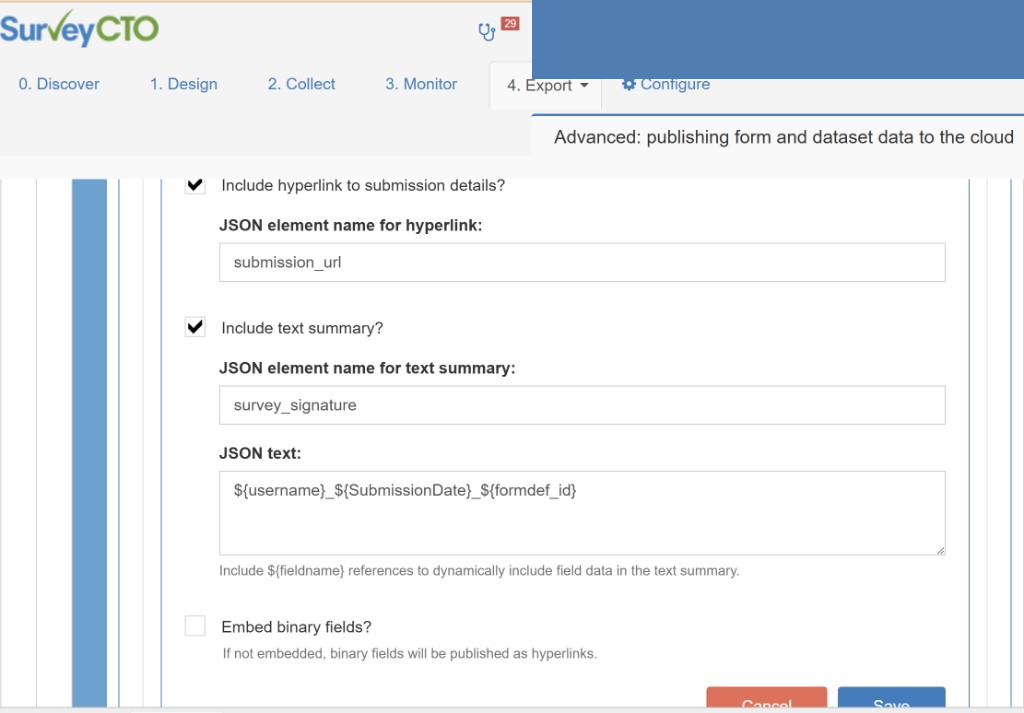
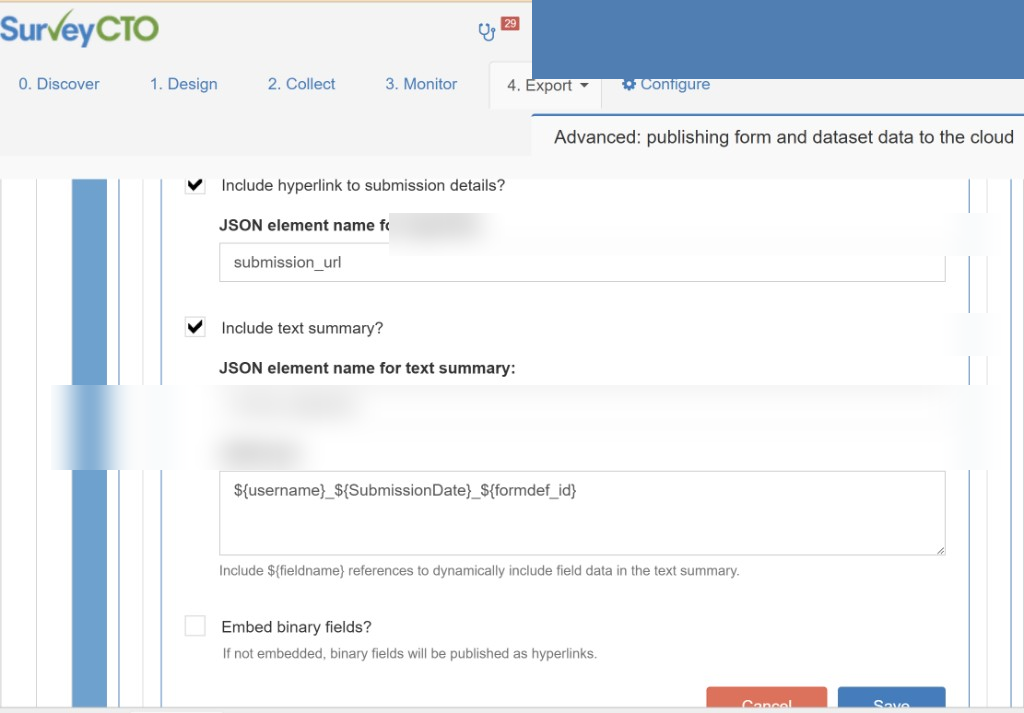
Add SurveyCTO webhook guide with console screenshots

diff --git a/docs/SurveyCTO-Publishing-to-other-systems-via-webhooks.md b/docs/SurveyCTO-Publishing-to-other-systems-via-webhooks.md
@@ -109,37 +109,38 @@ Submission received from ${enumerator_name}, for household headed by ${hh_head}
 
 (Note, however, that you can only reference **publishable** fields in encrypted forms.)
 
-#### Example: `survey_signature` via “Include text summary” (used in this repo)
+#### Example: optional text summary for your receiver (generic)
 
-SurveyCTO can add an **extra JSON field** built from `${fieldname}` references. You choose the **JSON element name** and the **JSON text** in the webhook screen — this is **not** a built-in SurveyCTO system field name; you pick the name (here: `survey_signature`).
+SurveyCTO can add an **extra JSON field** built from `${fieldname}` references. You choose the **JSON element name** and the **JSON text** in the webhook screen. These names are **yours to define** — they are not fixed SurveyCTO system fields.
 
 ![Webhook options — hyperlink, text summary, embed binary](images/04-webhook-options-text-summary.png)
 
-*Figure 4: Example settings aligned with [suvita-public/surveycto-webhook-example](https://github.com/suvita-public/surveycto-webhook-example):*
+*Figure 4: Webhook options screen. **Sensitive values in the form are blurred** — use your own element names and JSON text in production; do not copy values from public documentation.*
 
-| Option | Example setting |
-|--------|-----------------|
-| Include hyperlink to submission details? | **Checked** — JSON element name: `submission_url` |
-| Include text summary? | **Checked** — JSON element name: `survey_signature` |
-| JSON text | `${username}_${SubmissionDate}_${formdef_id}` |
+**Illustrative console settings (fictional — not a production recipe):**
+
+| Option | Example only |
+|--------|----------------|
+| Include hyperlink to submission details? | **Checked** — JSON element name: e.g. `submission_link` |
+| Include text summary? | **Checked** — JSON element name: e.g. `submission_summary` |
+| JSON text | e.g. `Received from ${username} on ${SubmissionDate}` |
 | Embed binary fields? | **Unchecked** (files publish as metadata/hyperlinks) |
 
-SurveyCTO substitutes `${username}`, `${SubmissionDate}`, and `${formdef_id}` when the webhook fires. The published JSON can look like:
+SurveyCTO substitutes `${fieldname}` tokens when the webhook fires. A published payload might include:
 
 ```json
-"survey_signature": "collector@example.org_2025-07-01T15:07:53.416Z_example_form"
+"submission_summary": "Received from collector@example.org on 2025-07-01T15:07:53.416Z"
 ```
 
-**What the example receiver checks** (`app/services/webhook_service.py`): it rebuilds `{username}_{SubmissionDate}_{formdef_id}` and compares it to `survey_signature`. If they do not match, the request is rejected with HTTP 400.
+**Security — important**
 
-This is a **simple integrity check** for demos or low-risk workflows. It is **not** a substitute for proper authentication (API keys, HMAC, IP allow lists, etc.) on production systems.
+- Treat any text-summary pattern as **non-secret**. Anyone who receives webhooks can see usernames, dates, and field values and can often **reconstruct** the same string.
+- **Do not** publish your real JSON element name, `${...}` formula, or validation logic in public docs, screenshots, or repos if you rely on it operationally.
+- Use **HTTPS**, **network restrictions**, and **proper auth** (API keys, HMAC, etc.) for real protection — not a custom summary field alone.
 
-**Also publish** `username`, `SubmissionDate`, `formdef_id`, and `KEY` in the field list (Figure 3) so your server can use them independently of the summary string.
+**This open-source example app** includes optional payload checks in `app/services/webhook_service.py` for **local demos and tests**. Configure your **own** field names and rules in your deployment; see the code and [`examples/sample_submission.json`](../examples/sample_submission.json) only in a private or sanitized environment.
 
-**Alternative:** you can use the same pattern in a **calculate** field inside the form and publish that field instead of (or in addition to) the text summary — as long as the JSON key and value format match what your receiver expects.
-
-- Sample payload: [`examples/sample_submission.json`](../examples/sample_submission.json)
-- Validation: `app/services/webhook_service.py` → `_validate_survey_signature()`
+**Also publish** the underlying fields you reference (e.g. `username`, `SubmissionDate`, `KEY`) in the field list (Figure 3) if your receiver needs them separately from the summary text.
 
 ---
 
@@ -211,7 +212,7 @@ Exact fields depend on your form and what you selected to publish. Receivers oft
 | `SubmissionDate` | ISO timestamp of submission |
 | `formdef_id` | Form version identifier |
 
-Plus any form fields you selected (text, selects, repeats, files, and custom calculate fields such as `survey_signature`).
+Plus any form fields you selected (text, selects, repeats, files, and any extra summary field you configured).
 
 ---
 
@@ -250,14 +251,14 @@ See `examples/sample_submission.json` in this repository. Illustrative shape:
   "username": "collector@example.org",
   "formdef_id": "example_form",
   "KEY": "uuid:00000000-0000-0000-0000-000000000001",
-  "survey_signature": "collector@example.org_2025-07-01T15:07:53.416Z_example_form",
+  "submission_summary": "Received from collector@example.org on 2025-07-01T15:07:53.416Z",
   "attachments": [
     { "file": { "filename": "photo-1.jpg", "type": "image/jpeg" } }
   ]
 }
 ```
 
-`survey_signature` appears only if you added and published that calculate field in your form.
+Extra summary fields appear only if you enabled **Include text summary** and set a JSON element name in the webhook options.
 
 ### Local testing (this repo)
 
@@ -279,7 +280,7 @@ curl -X POST http://localhost:8000/webhook/surveycto \
 | Symptom | Things to check |
 |---------|------------------|
 | No POST received | Cloud publishing **ON**; webhook on the **correct form**; URL is **HTTPS** and public; wait **10 minutes** |
-| 400 from example app | `survey_signature` mismatch — text summary must be `${username}_${SubmissionDate}_${formdef_id}` (same as Figure 4) or disable validation in code |
+| 400 from example app | Optional demo validation in code rejected the payload — adjust `webhook_service.py` or your SurveyCTO text summary to match **your** private setup |
 | Missing form fields | Field not selected in webhook config; encrypted field not **publishable** |
 | No files / only filenames | **Embed binary** is off — expected; use SurveyCTO URLs or APIs to fetch bytes |
 | Wrong attachment structure | `attachment_repeat_group` / `attachment_field` in `appconfig.ini` must match **your** form JSON keys |

diff --git a/README.md b/README.md
@@ -71,7 +71,7 @@ copy app\config\logconfig.ini.example app\config\logconfig.ini
 
 See [SurveyCTO documentation](https://docs.surveycto.com/) for webhook configuration details on your server version.
 
-For a detailed companion guide (same structure as the official page, with receiver setup, `survey_signature`, files, and troubleshooting), see [`docs/SurveyCTO-Publishing-to-other-systems-via-webhooks.md`](docs/SurveyCTO-Publishing-to-other-systems-via-webhooks.md).
+For a detailed companion guide (same structure as the official page, with console screenshots and webhook setup), see [`docs/SurveyCTO-Publishing-to-other-systems-via-webhooks.md`](docs/SurveyCTO-Publishing-to-other-systems-via-webhooks.md).
 
 ## Usage
 
